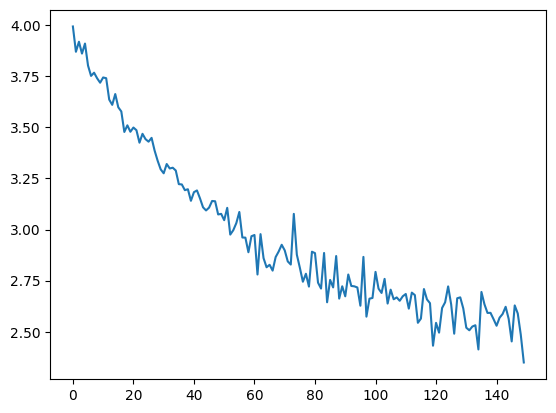
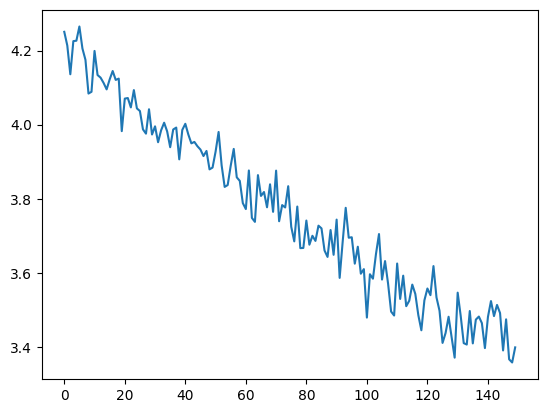
better division btwn v1 & v2

diff --git a/char_level/v1/v1_decoder.py b/char_level/v1/v1_decoder.py
@@ -3,22 +3,17 @@ import torch.nn as nn
 from torch.nn import functional as F
 
 class CharV1(nn.Module):
-    def __init__(self, vocab_size, context_size, emb_dim):
+    def __init__(self, vocab_size, context_size):
         super().__init__()
-        self.vocab_size = vocab_size
         self.context_size = context_size
-        self.emb_dim = emb_dim
+        self.vocab_size = vocab_size
 
-        self.tkn_emb_table = nn.Embedding(vocab_size, emb_dim)
-        # y = x @ A.T + b, where A is (vocab_size, emb_dim) and b in (1, vocab_size)
-        # in practice it is x @ (emb_dim, vocab_size) + (1, vocab_size)
-        self.lm_head = nn.Linear(emb_dim, vocab_size)
+        self.tkn_emb_table = nn.Embedding(vocab_size, vocab_size)
 
     def forward(self, x, targets=None):
         # x -> (B, S); S = seq len
         # token and positiona embeddings
-        tkn_emb = self.tkn_emb_table(x) # tkn_emb -> (B, S, E); E = embeding dims
-        logits = self.lm_head(tkn_emb) # tkn_emb (B, S, E) @ lm_head (E, V) -> (B, S, V); V = vocab size
+        logits = self.tkn_emb_table(x) # tkn_emb -> (B, S, E); E = embeding dims
 
         if targets == None:
             loss = None

diff --git a/char_level/v2/v2_decoder.py b/char_level/v2/v2_decoder.py
@@ -10,7 +10,6 @@ class CharV2(nn.Module):
         self.emb_dim = emb_dim
 
         self.tkn_emb_table = nn.Embedding(vocab_size, emb_dim)
-        self.pos_emb_table = nn.Embedding(context_size, emb_dim)
         # y = x @ A.T + b, where A is (vocab_size, emb_dim) and b in (1, vocab_size)
         # in practice it is x @ (emb_dim, vocab_size) + (1, vocab_size)
         self.lm_head = nn.Linear(emb_dim, vocab_size)
@@ -21,10 +20,7 @@ class CharV2(nn.Module):
 
         # token and positiona embeddings
         tkn_emb = self.tkn_emb_table(x) # tkn_emb -> (B, S, E); E = embeding dims
-        pos_emb = self.pos_emb_table(torch.arange(S)) # pos_emb -> (S, E)
-        x = tkn_emb + pos_emb # (B, S, E)
-
-        logits = self.lm_head(x) # x (B, S, E) @ lm_head (E, V) -> (B, S, V); V = vocab size
+        logits = self.lm_head(tkn_emb) # x (B, S, E) @ lm_head (E, V) -> (B, S, V); V = vocab size
 
         if targets == None:
             loss = None

diff --git a/char_level/v1/v1.py b/char_level/v1/v1.py
@@ -20,7 +20,6 @@ setup_seed(42)
 PATH = '../data/shakespeare.txt'
 BATCH_SIZE = 4
 CONTEXT_SIZE = 8
-EMBEDDING_DIM = 10
 
 #%% Load some Shakespeare
 loader = CharLoader(PATH, BATCH_SIZE, CONTEXT_SIZE)
@@ -32,7 +31,7 @@ print("batch x:",loader.decode(x))
 print("batch y:",loader.decode(y))
 
 #%% Test untrained model
-v1_model = CharV1(loader.vocab_size, CONTEXT_SIZE, EMBEDDING_DIM)
+v1_model = CharV1(loader.vocab_size, CONTEXT_SIZE)
 
 # Loss
 logits, loss = v1_model(x, y)

diff --git a/char_level/v2/v2.py b/char_level/v2/v2.py
@@ -51,7 +51,7 @@ def gen_test():
 gen_test()
 
 #%% Train and check results
-losses = train(v1_model, loader, steps=1480)
+losses = train(v1_model, loader, steps=1500)
 plt.plot(range(len(losses)), losses)
 print("Final loss:", losses[-1])
 
